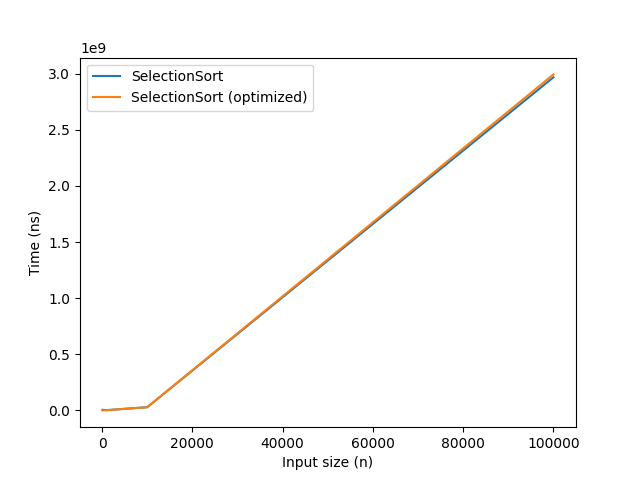
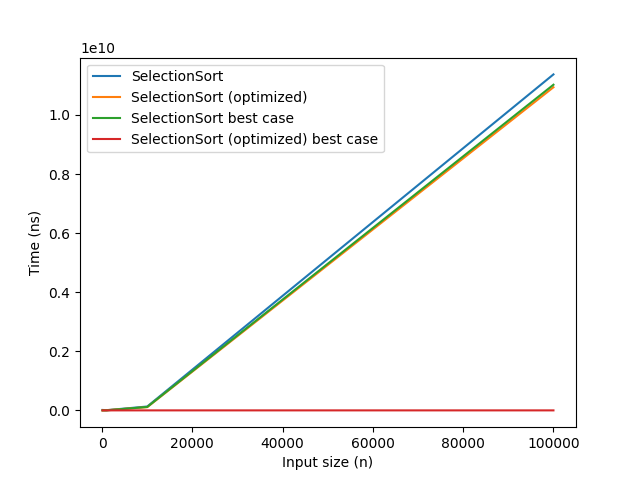
benchmark best case

diff --git a/assignment2/src/main/java/cli/BenchmarkRunner.java b/assignment2/src/main/java/cli/BenchmarkRunner.java
@@ -58,6 +58,28 @@ public class BenchmarkRunner {
 			endTime = System.nanoTime();
 
 			writer.write(String.format("SelectionSort (optimized),%s,%s,%s,%s,%s,%s\n", n, endTime - startTime, PerformanceTracker.getComparisons(), PerformanceTracker.getSwaps(), PerformanceTracker.getArrayAccesses(), PerformanceTracker.getMaxMemoryAllocations()));
+
+			PerformanceTracker.reset();
+
+			array.sort(null);
+
+			startTime = System.nanoTime();
+
+			SelectionSort.sort(array);
+
+			endTime = System.nanoTime();
+
+			writer.write(String.format("SelectionSort best case,%s,%s,%s,%s,%s,%s\n", n, endTime - startTime, PerformanceTracker.getComparisons(), PerformanceTracker.getSwaps(), PerformanceTracker.getArrayAccesses(), PerformanceTracker.getMaxMemoryAllocations()));
+
+			PerformanceTracker.reset();
+
+			startTime = System.nanoTime();
+
+			SelectionSort.sortOptimized(array);
+
+			endTime = System.nanoTime();
+
+			writer.write(String.format("SelectionSort (optimized) best case,%s,%s,%s,%s,%s,%s\n", n, endTime - startTime, PerformanceTracker.getComparisons(), PerformanceTracker.getSwaps(), PerformanceTracker.getArrayAccesses(), PerformanceTracker.getMaxMemoryAllocations()));
 		}
 
 		writer.close();
